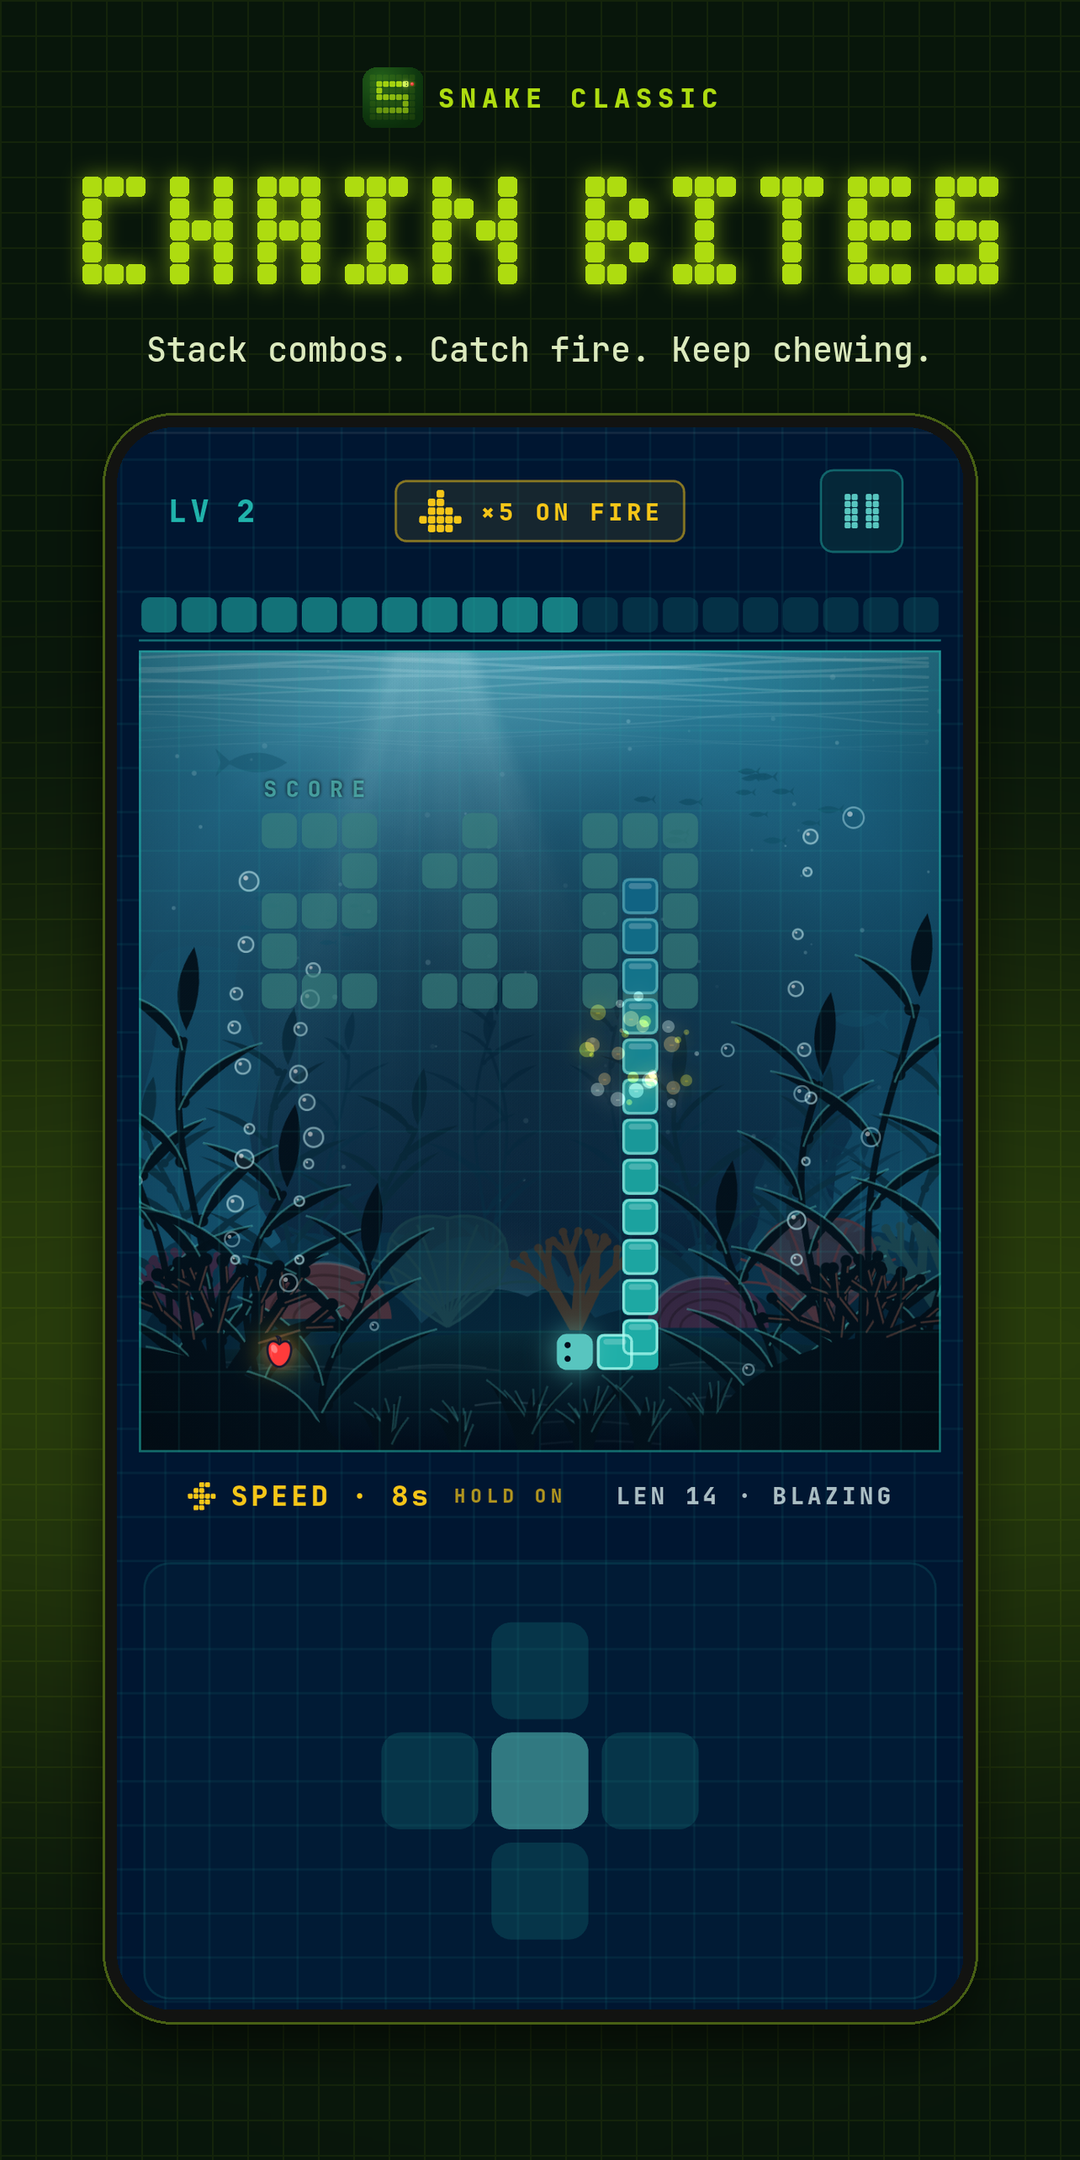
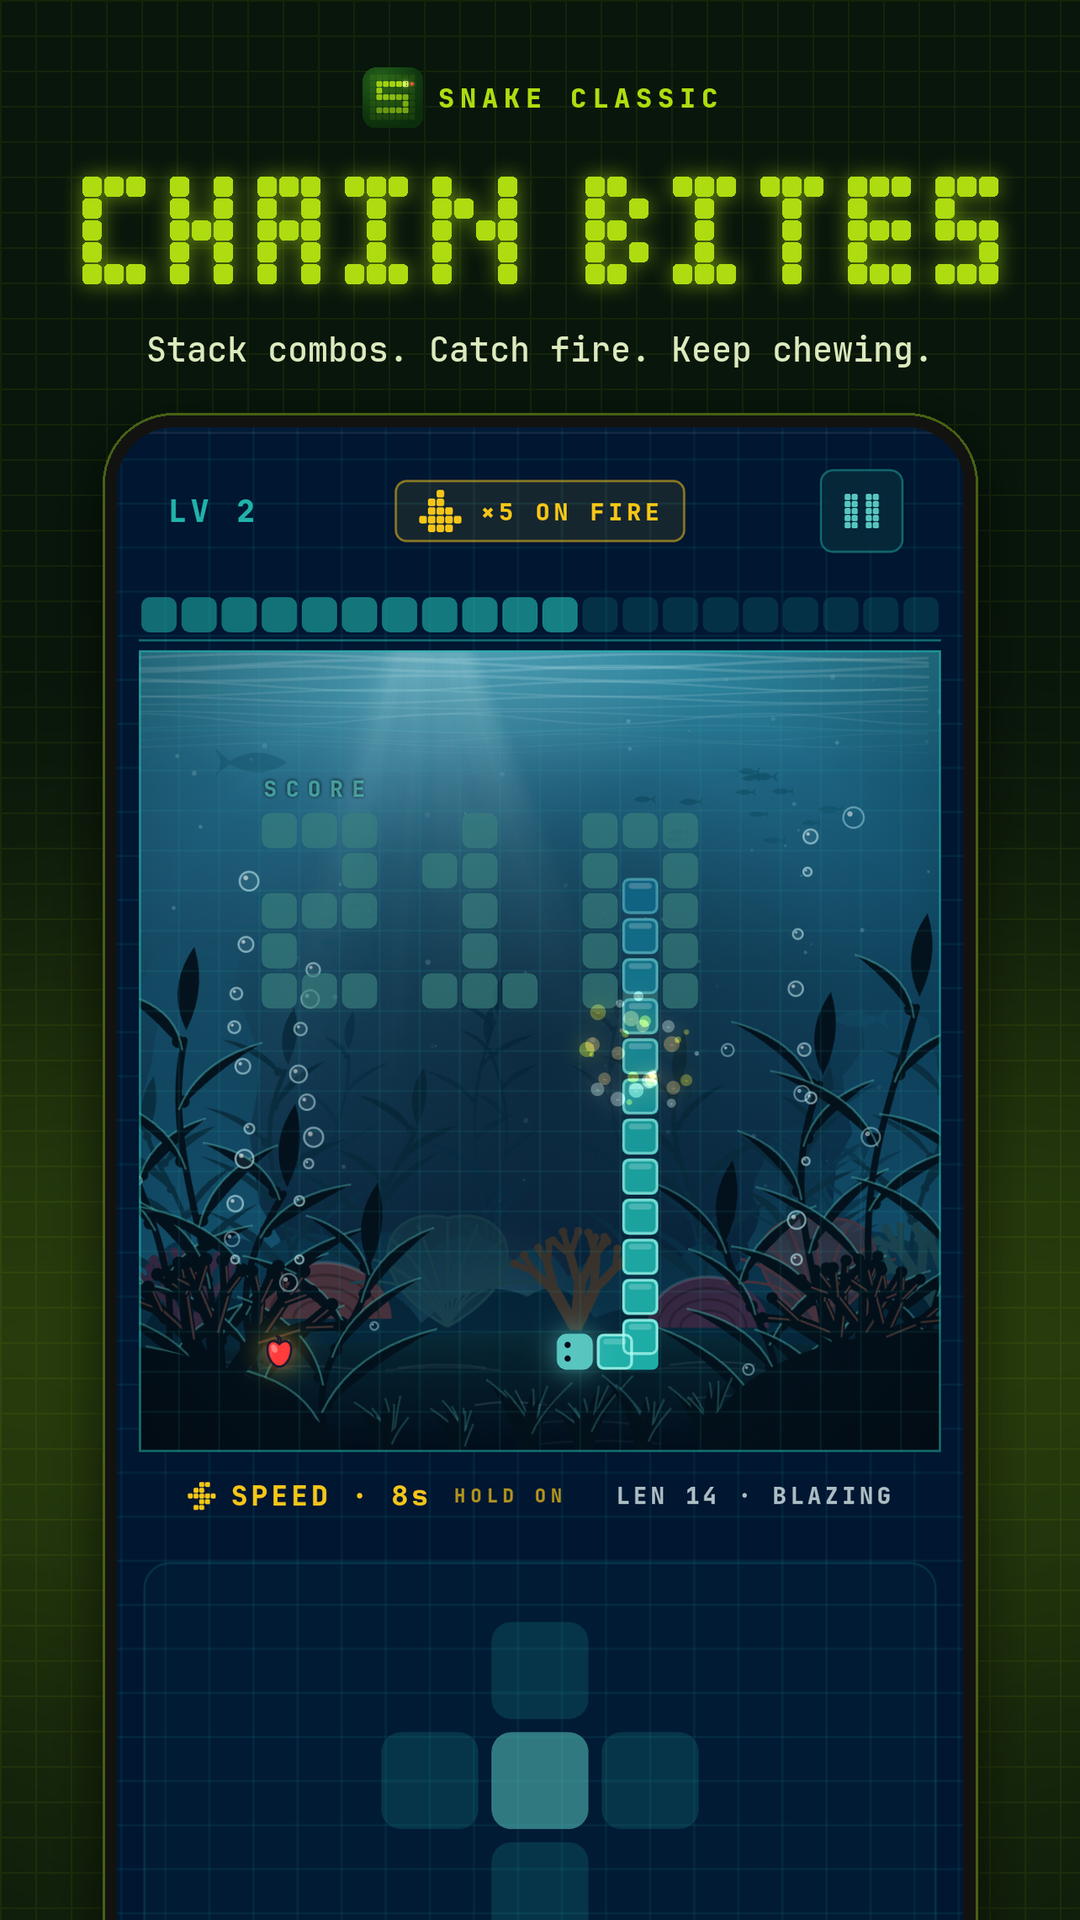
Play experiment screenshots at 9:16 (experiments reject 2:1)

diff --git a/tools/store_shots/gen_store_shots.py b/tools/store_shots/gen_store_shots.py
@@ -35,12 +35,13 @@ G = {'A':['111','101','111','101','101'],'B':['110','101','110','101','110'],'C'
 LIME = (174, 220, 16)
 GOLD = (245, 197, 24)
 W, H = 1284, 2778
-# Google Play phone screenshots may be at most 2:1. STORE_SHOT_PLAY=1 lays the
-# same design out on a 1284 x 2568 canvas (the phone mock runs off the bottom
-# edge) and saves it at 1080 x 2160.
+# Google Play: the listing takes up to 2:1, but store listing EXPERIMENTS only
+# take 16:9 / 9:16. STORE_SHOT_PLAY=1 lays the same design out on a 9:16
+# canvas (1284 x 2283; the phone mock runs off the bottom edge) and saves it at
+# 1080 x 1920, which both accept.
 PLAY = os.environ.get('STORE_SHOT_PLAY') == '1'
 if PLAY:
-    H = W * 2
+    H = round(W * 16 / 9)
 
 
 def font(name, size):
@@ -168,7 +169,7 @@ def render(j, base_dir):
     os.makedirs(os.path.dirname(out), exist_ok=True)
     img = cv.convert('RGB')
     if PLAY:
-        img = img.resize((1080, 2160), Image.LANCZOS)
+        img = img.resize((1080, 1920), Image.LANCZOS)
     img.save(out, 'PNG', optimize=True)
     print('wrote', out)
 
